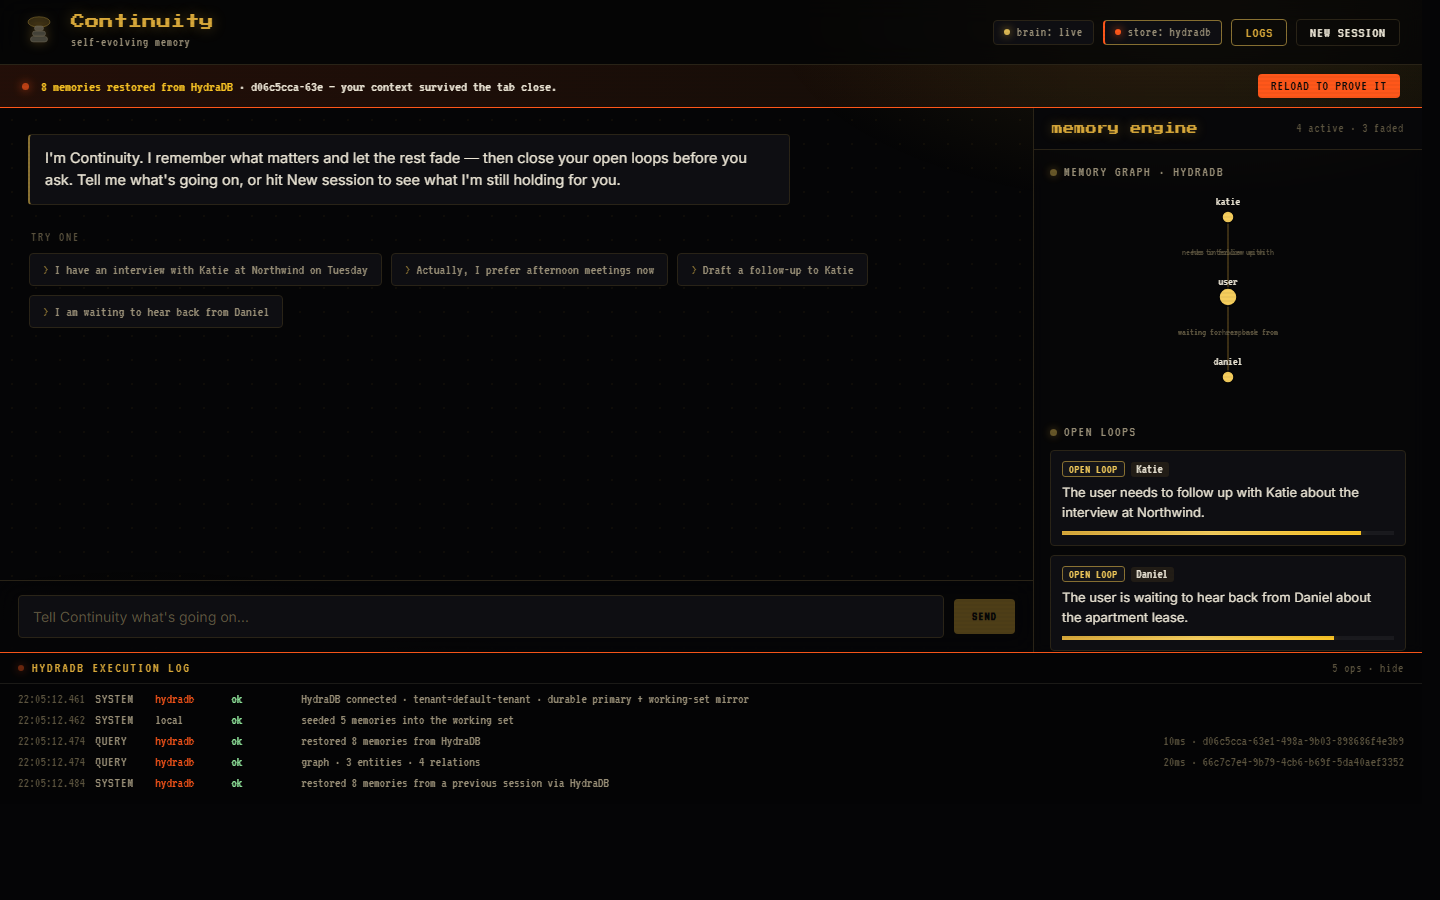
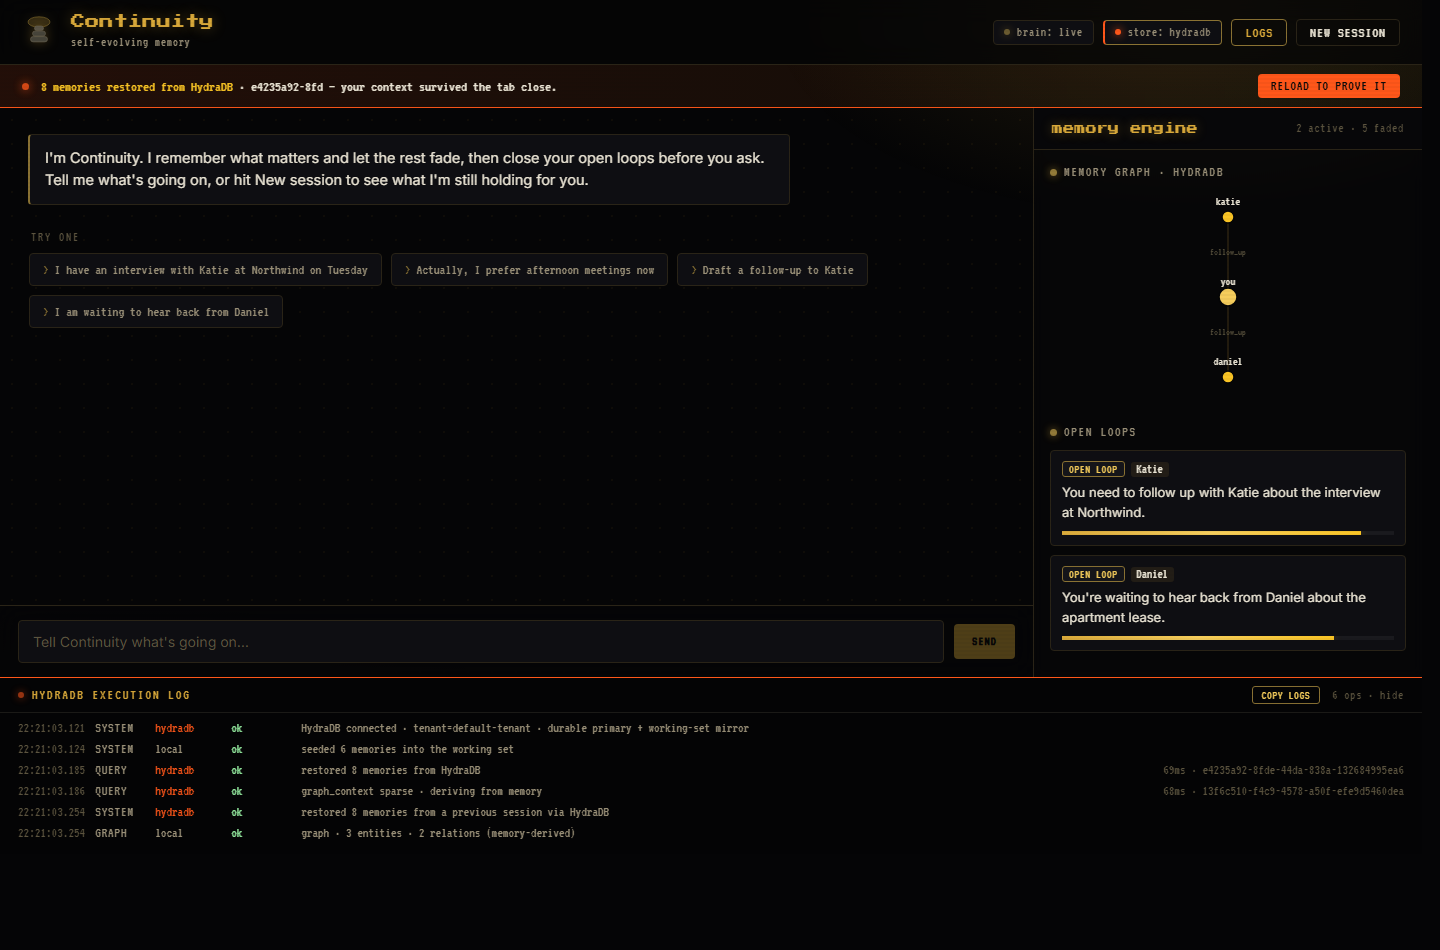
fix: second-person rendering, single self-node, allergy guard, copy-logs
P0: render stored third-person memory as You everywhere (chat, chips, drafts,
entity badges) and sign drafts with USER_NAME. P0: collapse user aliases into one
canonical You graph node. P1: allergy guard warns when a penicillin-class drug is
prescribed and the allergy is remembered. P1: honest graph-log counts plus a
Copy-logs button. Adds brain.test.js (15 tests pass).

diff --git a/src/components.jsx b/src/components.jsx
@@ -3,6 +3,7 @@
 // LogDock (HydraDB execution-log proof), Toast, Landing hero.
 
 import { useEffect, useRef, useState } from 'react'
+import { toSecondPerson } from './lib/brain.js'
 
 // ---------------- Logo: graphite cairn rising into a gold cloud ----------------
 export function Logo({ pulse }) {
@@ -55,7 +56,7 @@ function ActionCard({ action, onSend }) {
       </div>
       <div className="action-row"><span className="lbl mono">to</span><span>{action.payload.to || '—'}</span></div>
       <div className="action-row"><span className="lbl mono">subject</span><span>{action.payload.subject}</span></div>
-      <pre className="action-body">{action.payload.body}</pre>
+      <pre className="action-body">{toSecondPerson(action.payload.body)}</pre>
       {!sent && <button className="btn-send-mail" onClick={() => onSend(action.id)}>Send &amp; close loop</button>}
     </div>
   )
@@ -88,7 +89,7 @@ export function Chat({ messages, busy, onSend, onSendAction }) {
         {messages.map((m) => (
           <div key={m.id} className={'msg ' + m.role + ' ' + (m.proactive ? 'proactive' : '')}>
             {m.proactive && <span className="proactive-tag mono">proactive recall</span>}
-            <div className="bubble">{m.text}</div>
+            <div className="bubble">{toSecondPerson(m.text)}</div>
             {m.action && <ActionCard action={m.action} onSend={onSendAction} />}
           </div>
         ))}
@@ -142,16 +143,46 @@ function MemChip({ mem, score, highlighted }) {
     <div className={cls.join(' ')}>
       <div className="chip-top">
         <span className={'kind mono k-' + mem.kind}>{KIND_LABEL[mem.kind] || mem.kind}</span>
-        {mem.entity && <span className="entity">{mem.entity}</span>}
+        {mem.entity && <span className="entity">{toSecondPerson(mem.entity)}</span>}
         {superseded && <span className="status-tag mono">superseded</span>}
         {archived && <span className="status-tag mono">forgotten</span>}
         {resolved && <span className="status-tag mono ok">resolved</span>}
         {score != null && <span className="score">{score.toFixed(2)}</span>}
       </div>
-      <div className="chip-content">{mem.content}</div>
+      <div className="chip-content">{toSecondPerson(mem.content)}</div>
       {!archived && !superseded && <Bar value={mem.eff} kind={mem.kind} />}
     </div>
   )
+}
+
+// Collapse first-person aliases (user / the user / I / me) into one canonical
+// "You" self-node and drop duplicate edges, for both HydraDB and local graphs.
+function normalizeGraph(g) {
+  const isSelf = (name) => /^(the\s+)?(user|i|me|you|self)$/i.test(String(name || '').trim())
+  const idMap = {}
+  const nodes = []
+  let selfAdded = false
+  for (const n of (g.nodes || [])) {
+    if (isSelf(n.name)) {
+      idMap[n.id] = 'self'
+      if (!selfAdded) { selfAdded = true; nodes.push({ ...n, id: 'self', name: 'You' }) }
+      continue
+    }
+    idMap[n.id] = n.id
+    nodes.push(n)
+  }
+  const edges = []
+  const eseen = new Set()
+  for (const e of (g.edges || [])) {
+    const s = idMap[e.source] || e.source
+    const t = idMap[e.target] || e.target
+    if (s === t) continue
+    const key = s + '>' + t
+    if (eseen.has(key)) continue
+    eseen.add(key)
+    edges.push({ ...e, source: s, target: t })
+  }
+  return { nodes, edges }
 }
 
 // Live knowledge graph from HydraDB's extracted entity-relation triplets —
@@ -171,11 +202,11 @@ function buildLocalGraph(memories) {
 function GraphPanel({ graph, memories }) {
   // Prefer HydraDB's extracted graph; fall back to a graph built from the live
   // memories so the viz always renders even when graph extraction is sparse.
-  const g = (graph && graph.nodes && graph.nodes.length >= 2) ? graph : buildLocalGraph(memories)
+  const g = normalizeGraph((graph && graph.nodes && graph.nodes.length >= 2) ? graph : buildLocalGraph(memories))
   if (!g.nodes || g.nodes.length < 2) return null
   const W = 356, H = 210, cx = W / 2, cy = H / 2, R = 80
   const nodes = g.nodes.slice(0, 8)
-  const hub = nodes.find((n) => /user/i.test(n.name)) || nodes[0]
+  const hub = nodes.find((n) => n.id === 'self' || /^you$/i.test(n.name)) || nodes[0]
   const others = nodes.filter((n) => n !== hub)
   const pos = { [hub.id]: { x: cx, y: cy } }
   others.forEach((n, i) => {
@@ -278,6 +309,10 @@ export function LogDock({ logs, open, onToggle }) {
   }, [logs, open])
 
   const ops = logs.length
+  const copyLogs = () => {
+    const text = logs.map((l) => [fmtTs(l.ts), (l.op || '').toUpperCase(), l.store, l.status, l.detail, (l.latency_ms != null ? l.latency_ms + 'ms' : ''), (l.request_id || '')].filter(Boolean).join('  ')).join('\n')
+    if (navigator.clipboard && navigator.clipboard.writeText) navigator.clipboard.writeText(text)
+  }
   return (
     <section className={'logdock ' + (open ? '' : 'collapsed')} aria-label="HydraDB execution log">
       <div className="logdock-head" onClick={onToggle} role="button" tabIndex={0}
@@ -285,7 +320,10 @@ export function LogDock({ logs, open, onToggle }) {
         <span className="logdock-title mono">
           <span className="live-dot" /> hydradb execution log
         </span>
-        <span className="mono engine-stat">{ops} ops · {open ? 'hide' : 'show'}</span>
+        <span className="mono engine-stat">
+          <button className="logdock-copy" onClick={(e) => { e.stopPropagation(); copyLogs() }} disabled={!ops}>copy logs</button>
+          {ops} ops · {open ? 'hide' : 'show'}
+        </span>
       </div>
       <div className="logdock-body" ref={bodyRef}>
         {logs.length === 0 && <div className="empty mono">no operations yet</div>}

diff --git a/src/lib/brain.js b/src/lib/brain.js
@@ -69,6 +69,22 @@ function toThirdPerson(text) {
   return t.charAt(0).toUpperCase() + t.slice(1)
 }
 
+// Display-time only: render stored third-person memory ("The user is...") as
+// natural second person ("You're...") for user-facing text. Never mutates what
+// is stored in HydraDB — the canonical form stays third-person for the engine.
+const USER_NAME = (import.meta.env && import.meta.env.VITE_USER_NAME) || 'Me'
+export function toSecondPerson(text) {
+  if (!text) return text
+  return String(text)
+    .replace(/\bThe user's\b/g, 'Your').replace(/\bthe user's\b/g, 'your')
+    .replace(/\bThe user is\b/g, "You're").replace(/\bthe user is\b/g, "you're")
+    .replace(/\bThe user has been\b/g, "You've been").replace(/\bthe user has been\b/g, "you've been")
+    .replace(/\bThe user has\b/g, 'You have').replace(/\bthe user has\b/g, 'you have')
+    .replace(/\bThe user will\b/g, "You'll").replace(/\bthe user will\b/g, "you'll")
+    .replace(/\bThe user ([a-z]+)s\b/g, 'You $1').replace(/\bthe user ([a-z]+)s\b/g, 'you $1')
+    .replace(/\bThe user\b/g, 'You').replace(/\bthe user\b/g, 'you')
+}
+
 export function extractMemories(text) {
   const sentences = text.split(/(?<=[.!?])\s+/).filter((s) => s.trim().length > 3)
   const source = sentences.length ? sentences : [text]
@@ -145,14 +161,17 @@ async function callLLM(memories, transcript, config) {
 function buildAction(text, memories) {
   const loop = memories.find((m) => m.kind === 'open_loop' && m.status !== 'resolved') || null
   const who = (loop && loop.entity) || 'there'
-  const topic = loop
-    ? loop.content.replace(/^The user('s)?\s*(has|is|will|has been|had)?\s*/i, '').replace(/\.$/, '')
+  let topic = loop
+    ? loop.content.replace(/^The user('s)?\s*(has|is|will|has been|had|was|wants?|needs?|is waiting)?\s*/i, '').replace(/\.$/, '')
     : 'our last conversation'
+  // Writing TO this person, so drop "with <them>" and shift to first person.
+  if (who !== 'there') topic = topic.replace(new RegExp('\\s*\\bwith ' + who + '\\b', 'i'), '')
+  topic = topic.replace(/\bthe user's\b/gi, 'my').replace(/\bthe user\b/gi, 'I')
   return {
     type: 'email_draft',
     to: who !== 'there' ? who : '',
     subject: loop && loop.entity ? 'Following up, ' + loop.entity : 'Quick follow-up',
-    body: 'Hi ' + who + ',\n\nJust circling back — ' + topic + '. Any update when you get a moment?\n\nBest,\n— You',
+    body: 'Dear ' + who + ',\n\nI wanted to follow up on ' + topic + '. Any update when you get a moment?\n\nBest,\n' + USER_NAME,
   }
 }
 
@@ -176,10 +195,28 @@ export function heuristicBrain(memories, transcript) {
   return { reply: buildReply(drafts, isActionCmd), memories: drafts, action, source: 'local' }
 }
 
+// Bulletproof safety beat: if the latest message is about a prescription and a
+// stored allergy makes it dangerous, surface the recall as a warning. Fires
+// whether the reply came from the LLM or the local heuristic.
+const RX_RE = /\b(prescrib|antibiotic|medication|medicine|pill|dose|amoxicillin|penicillin|put (you|me) on|take this)\b/i
+const PENICILLIN_CLASS = /\b(penicillin|amoxicillin|ampicillin|augmentin|amoxil|methicillin|flucloxacillin|piperacillin)\b/i
+export function allergyGuard(transcript, memories) {
+  if (!RX_RE.test(transcript)) return null
+  const allergy = (memories || []).find((m) => /allerg/i.test(m.content) && /penicillin/i.test(m.content) && m.status !== 'superseded')
+  if (!allergy) return null
+  const med = (transcript.match(PENICILLIN_CLASS) || [])[0]
+  if (!med) return null
+  return 'Heads up: you told me you are allergic to penicillin, and ' + med.toLowerCase() + ' is penicillin-class. Flag this with the prescriber before taking it.'
+}
+
 export async function callBrain(memories, transcript, config = {}) {
+  let result = null
   if (config.apiKey) {
-    try { return await callLLM(memories, transcript, config) }
+    try { result = await callLLM(memories, transcript, config) }
     catch (err) { console.warn('[brain] LLM failed -> local fallback:', err.message) }
   }
-  return heuristicBrain(memories, transcript)
+  if (!result) result = heuristicBrain(memories, transcript)
+  const warn = allergyGuard(transcript, memories)
+  if (warn) result = { ...result, reply: warn + (result.reply ? '\n\n' + result.reply : ''), guard: true }
+  return result
 }

diff --git a/src/lib/brain.test.js b/src/lib/brain.test.js
@@ -1,0 +1,33 @@
+import { describe, it, expect } from 'vitest'
+import { allergyGuard, toSecondPerson } from './brain.js'
+
+describe('P0 — second-person rendering (no "The user" leak)', () => {
+  it('rewrites stored third-person memory to second person', () => {
+    expect(toSecondPerson('The user has an interview with Katie.')).toBe('You have an interview with Katie.')
+    expect(toSecondPerson('The user needs to follow up with Katie.')).toBe('You need to follow up with Katie.')
+    expect(toSecondPerson('The user is allergic to penicillin.')).toBe("You're allergic to penicillin.")
+    expect(toSecondPerson('the user')).toBe('you')
+  })
+  it('never leaves the literal string "the user" in output', () => {
+    const out = toSecondPerson('The user prefers morning meetings and the user takes coffee black.')
+    expect(out.toLowerCase()).not.toContain('the user')
+  })
+})
+
+describe('P1 — allergy guard (memory changes the answer)', () => {
+  const mems = [{ content: 'The user is allergic to penicillin.', kind: 'fact', status: 'active' }]
+  it('warns when a penicillin-class drug is prescribed and the allergy is stored', () => {
+    const w = allergyGuard('the doctor wants to prescribe amoxicillin for my infection', mems)
+    expect(w).toMatch(/allergic to penicillin/i)
+    expect(w).toMatch(/amoxicillin/i)
+  })
+  it('stays silent when the allergy is not remembered', () => {
+    expect(allergyGuard('the doctor wants to prescribe amoxicillin', [])).toBeNull()
+  })
+  it('stays silent for unrelated messages', () => {
+    expect(allergyGuard('I had coffee this morning', mems)).toBeNull()
+  })
+  it('ignores a superseded allergy memory', () => {
+    expect(allergyGuard('prescribe amoxicillin', [{ content: 'The user is allergic to penicillin.', status: 'superseded' }])).toBeNull()
+  })
+})

diff --git a/src/hooks/useContinuity.js b/src/hooks/useContinuity.js
@@ -18,6 +18,7 @@ const SEED_MEMORIES = [
   { content: 'The user prefers morning meetings over afternoons.', kind: 'preference', salience: 0.6, entity: null, predicate: 'meeting_time', last_reinforced: ago(40) },
   { content: 'The user takes their coffee black, no sugar.', kind: 'preference', salience: 0.5, entity: null, predicate: 'coffee' },
   { content: 'The user mentioned it was raining on the commute this morning.', kind: 'chatter', salience: 0.26, entity: null, predicate: null, created_at: ago(28), last_reinforced: ago(28) },
+  { content: 'The user is allergic to penicillin.', kind: 'fact', salience: 0.95, entity: null, predicate: 'allergy' },
 ]
 
 let mid = 0
@@ -57,7 +58,7 @@ export function useContinuity() {
   const engine = engineRef.current
 
   const [messages, setMessages] = useState(() => [
-    msg('agent', "I'm Continuity. I remember what matters and let the rest fade — then close your open loops before you ask. Tell me what's going on, or hit New session to see what I'm still holding for you."),
+    msg('agent', "I'm Continuity. I remember what matters and let the rest fade, then close your open loops before you ask. Tell me what's going on, or hit New session to see what I'm still holding for you."),
   ])
   const [snapshot, setSnapshot] = useState(() => engine.snapshot())
   const [logs, setLogs] = useState(() => logRef.current.list())
@@ -95,7 +96,13 @@ export function useContinuity() {
       setSnapshot(engine.snapshot())
       if (r && r.mode === 'restored') showToast('↺ ' + r.count + ' memories restored from HydraDB')
     }).catch(() => {})
-    engine.loadGraph().then((g) => { if (alive && g && g.nodes && g.nodes.length) setGraph(g) }).catch(() => {})
+    engine.loadGraph().then((g) => {
+      if (!alive) return
+      if (g && g.nodes && g.nodes.length) { setGraph(g); return }
+      // HydraDB graph_context was sparse; reflect the client memory-graph so the log count matches the viz.
+      const ents = [...new Set(engine.snapshot().memories.filter((m) => m.status === 'active' && m.entity).map((m) => m.entity))]
+      logRef.current.event({ op: 'graph', store: 'local', status: 'ok', detail: 'graph · ' + (ents.length + 1) + ' entities · ' + ents.length + ' relations (memory-derived)' })
+    }).catch(() => {})
     return () => { alive = false }
   }, [engine, showToast])
 

diff --git a/src/styles.css b/src/styles.css
@@ -387,6 +387,10 @@ button { font-family: var(--sans); }
 .ba-recall li span.sup { text-decoration: line-through; text-decoration-color: rgba(217, 169, 58, 0.45); }
 @media (max-width: 820px) { .ba-grid { grid-template-columns: 1fr; } }
 
+.logdock-copy { background: transparent; border: 1px solid var(--gold-dim); color: var(--gold-bright); font-family: var(--term); font-size: 12px; text-transform: uppercase; letter-spacing: 0.05em; padding: 2px 9px; border-radius: 3px; cursor: pointer; margin-right: 12px; transition: var(--dur) var(--ease); }
+.logdock-copy:hover:not(:disabled) { background: rgba(217, 169, 58, 0.14); }
+.logdock-copy:disabled { opacity: 0.4; cursor: default; }
+
 .lfoot { text-align: center; padding: 90px 34px 110px; position: relative; z-index: 2; border-top: 1px solid var(--line); }
 .lfoot-title { font-family: var(--term); font-size: clamp(2rem, 1rem + 4vw, 3.6rem); color: var(--gold); margin: 0 0 30px; font-weight: 400; text-shadow: 0 0 28px rgba(217, 169, 58, 0.3); }
 .btn-enter.big { font-size: 19px; padding: 16px 38px; }

diff --git a/src/lib/hydra-client.js b/src/lib/hydra-client.js
@@ -260,7 +260,7 @@ export class HydraClient {
       }
       const nodes = Array.from(nodeMap.values())
       this.healthy = true
-      h.ok({ detail: 'graph · ' + nodes.length + ' entities · ' + edges.length + ' relations', request_id: (data.meta || {}).request_id || null })
+      h.ok({ detail: nodes.length ? ('graph · ' + nodes.length + ' entities · ' + edges.length + ' relations') : 'graph_context sparse · deriving from memory', request_id: (data.meta || {}).request_id || null })
       return { ok: true, nodes, edges }
     } catch (err) {
       this.healthy = false

diff --git a/README.md b/README.md
@@ -17,6 +17,18 @@ Tracks: **Best Use of Memory/Context** (the engine) + **Best Agent People Love**
 
 ![Continuity landing: the before and after memory proof](docs/screenshots/landing.png)
 
+## How HydraDB is the primary memory
+
+Every durable fact is written to HydraDB (`POST /context/ingest`) and every recall is a query (`POST /query`). There is no localStorage: on startup the agent restores its whole memory set from HydraDB, which is why context survives a tab close. The memory graph and the open loops are reconstructed from what HydraDB returns, and each operation is traced in the execution-log dock with a request ID and latency.
+
+## 60-second demo script
+
+1. **Seeded memory.** Open the app. The engine panel already holds memories restored from HydraDB (interview with Katie, allergic to penicillin), and the execution log shows the `restored N memories` query with a request ID.
+2. **Add a fact.** Type `My dentist is Dr. Mehta`. A new memory appears and a `WRITE hydradb ok` row lands in the log.
+3. **Hard-reload (the amnesia killer).** Refresh the tab. The banner reads "N memories restored from HydraDB, your context survived the tab close." Nothing was in localStorage; it all came back from HydraDB.
+4. **Memory changes the answer.** Type `the doctor wants to prescribe amoxicillin`. The agent recalls your stored allergy and warns: "Heads up: you told me you are allergic to penicillin, and amoxicillin is penicillin-class." The output changed because of what it remembered.
+5. **Point at the proof.** Open the HydraDB execution log (bottom dock) and hit **Copy logs**. Every write and recall is there with request IDs and latency.
+
 ## 24/7 autonomous agent (`agent/agent.mjs`)
 The web app is the memory + UI. The **daemon** is the autonomy: a scheduled worker on the
 *same live HydraDB memory* that reasons over your open loops and acts — runnable locally,